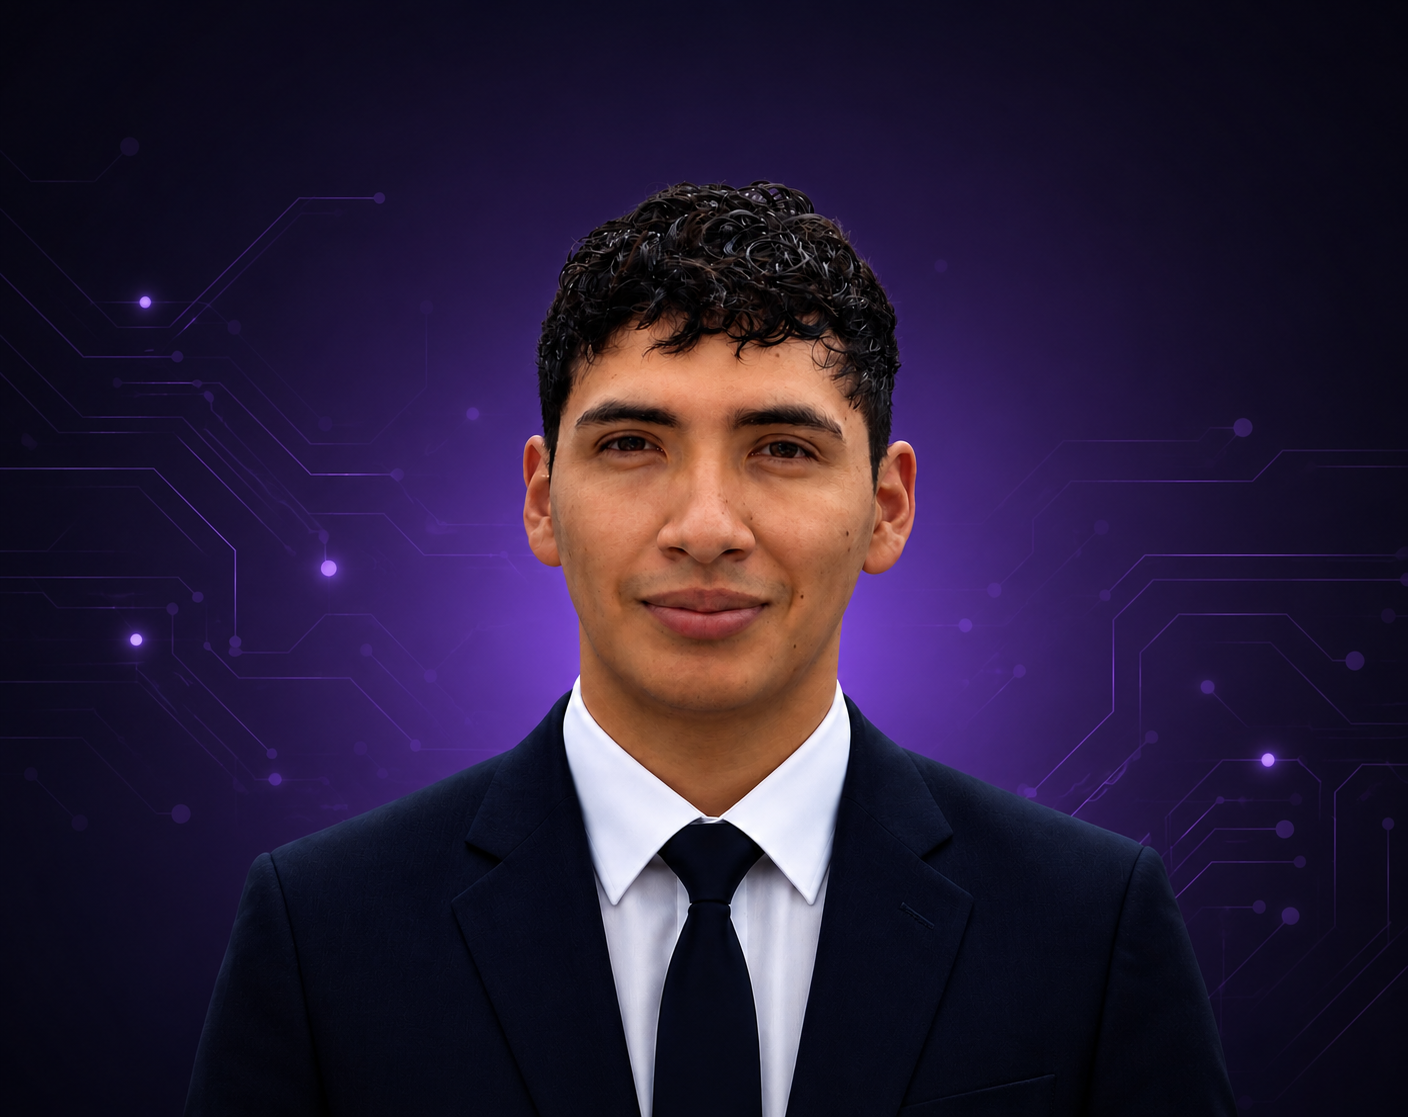
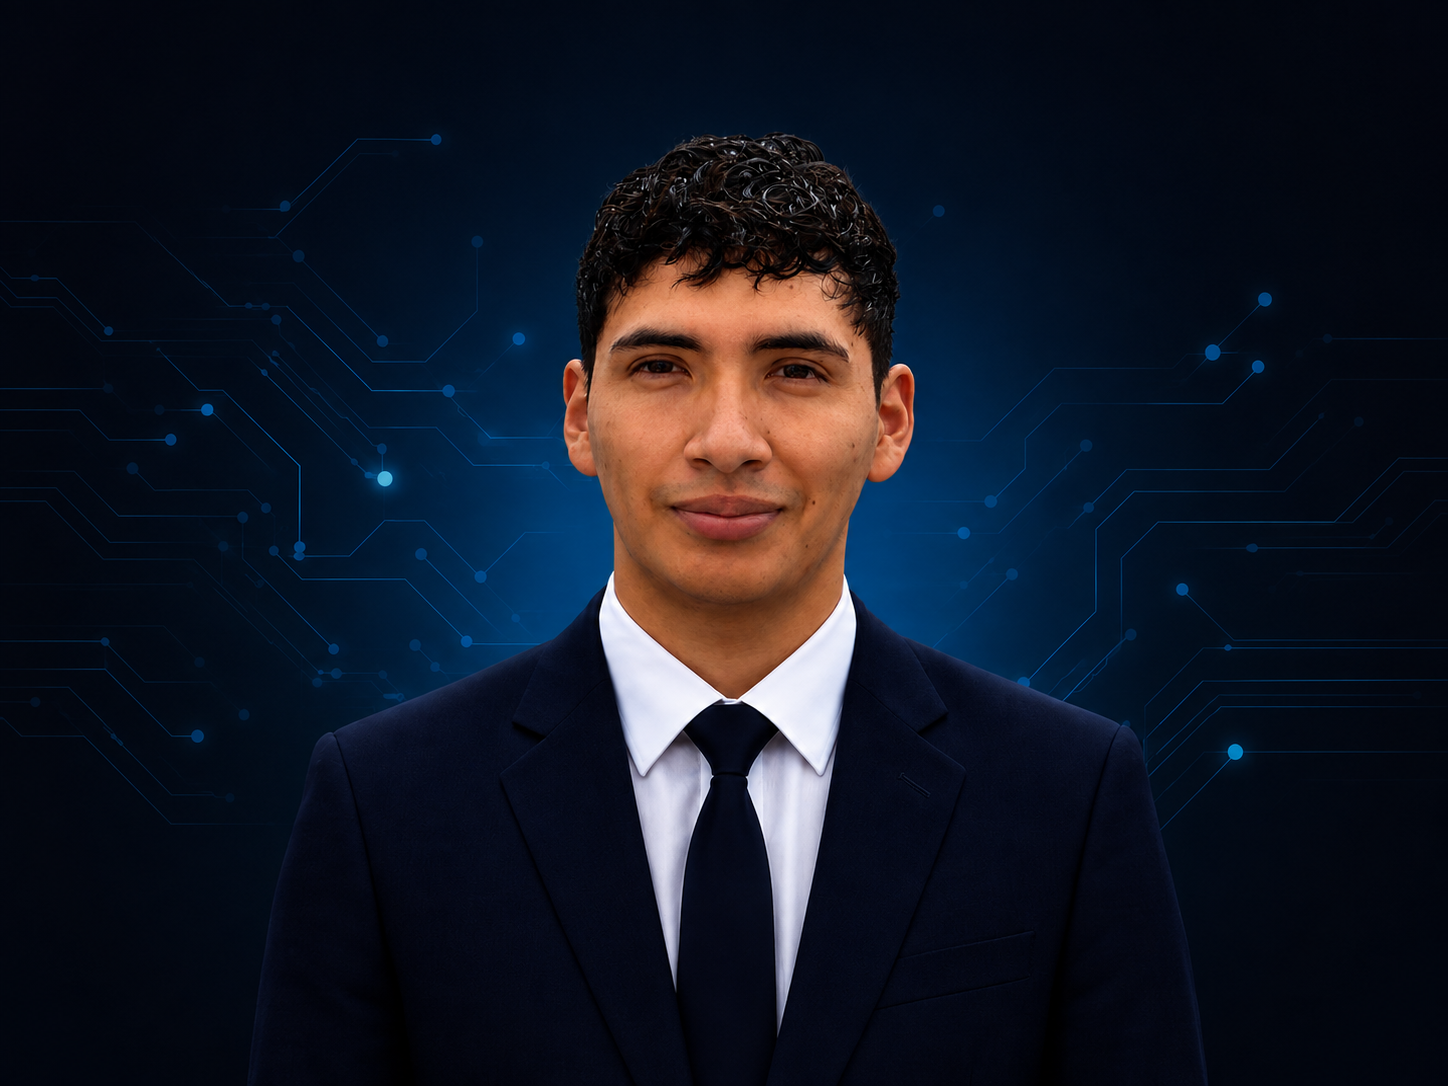
Modificacion de la seccion de proyectos y contacto: Implementacion del boton de git, arreglo de imagenes, modificacion de la seccion de contactos

diff --git a/src/components/Contact.jsx b/src/components/Contact.jsx
@@ -4,59 +4,80 @@ import { PiReadCvLogoFill } from "react-icons/pi"
 
 const Contact = () => {
   return (
-    <div id="contact"className="flex min-h-[70vh] min-w-full items-center justify-center p-4">
-      <div className="flex flex-col items-center justify-center gap-3 space-y-6 p-14">
-        <h1 className="text-center text-5xl md:text-7xl">
-          <span className="bg-linear-to-r from-indigo-500 to-blue-500 bg-clip-text text-transparent">
-            Ponte en contacto
-          </span>
-        </h1>
-        <p className="text-center text-lg font-semibold text-gray-500">
-          ¿Tienes una oportunidad laboral, un proyecto o simplemente quieres ponerte en contacto? Estaré encantado de conversar contigo.
-        </p>
-        <ul className="flex flex-wrap gap-5">
-          <li className="flex items-center gap-2 cursor-pointer text-lg opacity-70 transition-all duration-300 text-blue-500 hover:opacity-100">
-            <a
-              href="https://www.linkedin.com/in/jhon-roque-53512b378"
-              target="_blank"
-              rel="noopener noreferrer"
-              className="flex items-center gap-2"
-            >
-              <BsLinkedin />
-              Linkedin
-            </a>
-          </li>
-          <li className="flex items-center gap-2 cursor-pointer text-lg opacity-70 transition-all duration-300 text-orange-500 hover:opacity-100">
-            <a
-              href="https://github.com/jhonRR28"
-              target="_blank"
-              rel="noopener noreferrer"
-              className="flex items-center gap-2"
-            >
-              <BsGithub />
-              GitHub
-            </a>
-          </li>
-          <li className="flex items-center gap-2 cursor-pointer text-lg opacity-70 transition-all duration-300 text-sky-500 hover:opacity-100">
-            <a
-              href="/cv/Jhon_Roque_CV.pdf"
-              target="_blank"
-              rel="noopener noreferrer"
-              className="flex items-center gap-2"
-            >
-              <PiReadCvLogoFill />
-              Descargar CV
-            </a>
-          </li>
-        </ul>
+    <div id="contact" className="flex min-h-[70vh] w-full items-center justify-center px-4 py-20">
+      <div className="flex w-full max-w-5xl flex-col items-center gap-10">
 
-        <a
-          href="mailto:maleshector68@gmail.com"
-          className="flex items-center gap-2 rounded-xl border border-sky-500 px-6 py-3 font-medium text-sky-400 transition-all duration-300  hover:text-white hover:scale-105 hover:shadow-lg hover:shadow-sky-500/30"
-        >
-          <BiMailSend className="text-xl" />
-          Enviar correo
-        </a>
+        {/* Título */}
+        <div className="flex flex-col items-center gap-6 text-center">
+          <h1 className="bg-linear-to-r from-sky-300 via-cyan-400 to-blue-500 bg-clip-text text-4xl font-light text-transparent md:text-6xl">
+            Ponte en contacto
+          </h1>
+
+          <p className="max-w-2xl text-base leading-7 text-gray-400 md:text-lg">
+            ¿Tienes una oportunidad laboral, un proyecto o simplemente quieres
+            ponerte en contacto? Estaré encantado de conversar contigo.
+          </p>
+        </div>
+
+        {/* Cards */}
+        <div className="grid w-full grid-cols-1 justify-items-center gap-5 md:grid-cols-3">
+
+          {/* LinkedIn */}
+          <a
+            href="https://www.linkedin.com/in/jhon-roque-53512b378"
+            target="_blank"
+            rel="noopener noreferrer"
+            className="group flex w-full max-w-3xs flex-col items-center justify-center gap-4 rounded-2xl border border-slate-700/50 bg-slate-900/40 p-6 text-center transition-all duration-300 hover:-translate-y-2 hover:border-sky-400/50 hover:bg-slate-900/70 hover:shadow-lg hover:shadow-sky-500/10"
+          >
+            <BsLinkedin className="text-4xl text-sky-400 transition-transform duration-300 group-hover:scale-110" />
+            <div>
+              <h3 className="text-lg font-semibold text-white">
+                LinkedIn
+              </h3>
+              <p className="mt-1 text-sm text-gray-400">
+                Conecta conmigo
+              </p>
+            </div>
+          </a>
+
+          {/* GitHub */}
+          <a
+            href="https://github.com/jhonRR28"
+            target="_blank"
+            rel="noopener noreferrer"
+            className="group flex w-full max-w-3xs flex-col items-center justify-center gap-4 rounded-2xl border border-slate-700/50 bg-slate-900/40 p-6 text-center transition-all duration-300 hover:-translate-y-2 hover:border-sky-400/50 hover:bg-slate-900/70 hover:shadow-lg hover:shadow-sky-500/10"
+          >
+            <BsGithub className="text-4xl text-white transition-transform duration-300 group-hover:scale-110" />
+
+            <div>
+              <h3 className="text-lg font-semibold text-white">
+                GitHub
+              </h3>
+
+              <p className="mt-1 text-sm text-gray-400">
+                Mira mis proyectos
+              </p>
+            </div>
+          </a>
+
+          {/* Correo */}
+          <a
+            href="mailto:maleshector68@gmail.com"
+            className="group flex w-full max-w-3xs flex-col items-center justify-center gap-4 rounded-2xl border border-slate-700/50 bg-slate-900/40 p-6 text-center transition-all duration-300 hover:-translate-y-2 hover:border-sky-400/50 hover:bg-slate-900/70 hover:shadow-lg hover:shadow-sky-500/10"
+          >
+            <BiMailSend className="text-4xl text-cyan-400 transition-transform duration-300 group-hover:scale-110" />
+
+            <div>
+              <h3 className="text-lg font-semibold text-white">
+                Correo
+              </h3>
+
+              <p className="mt-1 text-sm text-gray-400">
+                Escríbeme directamente
+              </p>
+            </div>
+          </a>
+        </div>
       </div>
     </div>
   )

diff --git a/src/components/Projects.jsx b/src/components/Projects.jsx
@@ -1,10 +1,11 @@
 import { div } from 'motion/react-client'
-import image1 from '/public/facturacion.jpeg'
+import image1 from '/public/facturacion.png'
 import image2 from '/public/cuidarnos.png'
 import image3 from '/public/finu.png'
 import image4 from '/public/image4.jpg'
 import image5 from '/public/image5.jpg'
 import { motion } from "motion/react"
+import { BsGithub } from 'react-icons/bs'
 
 const projectsData = [
   {
@@ -12,36 +13,36 @@ const projectsData = [
     title: "Sistema Integral de Gestión de Clientes y Facturación",
     description: "Sistema web desarrollado para optimizar la gestión de clientes, consumos y facturación de un acueducto comunitario. Participé en el desarrollo de funcionalidades, mantenimiento y mejoras del sistema, contribuyendo a automatizar procesos administrativos.",
     technologies: ["PHP", "MySQL", "JavaScript", "HTML", "CSS"],
-    link: "https://example.com/project1"
+    repository: "https://github.com/gabrieljimenezc01/Facturacion_Aranda/tree/jhon"
   },
   {
     image: image2,
     title: "Aplicación para la Coordinación del Cuidado de Pacientes",
     description: "Proyecto personal orientado a mejorar la organización del cuidado de pacientes mediante la centralización de información médica, medicamentos y responsabilidades familiares. Actualmente se encuentra en desarrollo.",
     technologies: ["Flutter", "Django", "PostgresSQL"],
-    link: "https://example.com/project2"
+    repository: "#home"
   },
   {
     image: image3,
     title: "FinU",
     description: "Aplicación enfocada en la gestión de gastos personales, diseñada para facilitar el registro y seguimiento de ingresos y egresos mediante una interfaz sencilla e intuitiva.",
     technologies: ["Flutter", "SQLite"],
-    link: "https://example.com/project3"
+    repository: "https://github.com/gabrieljimenezc01/FinU"
   },
-  {
-    image: image4,
-    title: "Project 4",
-    description: "lorem ipsum dolor sit amet, consectetur adipiscing elit. Sed do eiusmod tempor incididunt ut labore et dolore magna aliqua.",
-    technologies: ["React", "Tailwind CSS", "Node.js"],
-    link: "https://example.com/project4"
-  },
-  {
-    image: image5,
-    title: "Project 5",
-    description: "lorem ipsum dolor sit amet, consectetur adipiscing elit. Sed do eiusmod tempor incididunt ut labore et dolore magna aliqua.",
-    technologies: ["React", "Tailwind CSS", "Node.js"],
-    link: "https://example.com/project5"
-  }
+  // {
+  //   image: image4,
+  //   title: "Project 4",
+  //   description: "lorem ipsum dolor sit amet, consectetur adipiscing elit. Sed do eiusmod tempor incididunt ut labore et dolore magna aliqua.",
+  //   technologies: ["React", "Tailwind CSS", "Node.js"],
+  //   repository: "https://example.com/project4"
+  // },
+  // {
+  //   image: image5,
+  //   title: "Project 5",
+  //   description: "lorem ipsum dolor sit amet, consectetur adipiscing elit. Sed do eiusmod tempor incididunt ut labore et dolore magna aliqua.",
+  //   technologies: ["React", "Tailwind CSS", "Node.js"],
+  //   repository: "https://example.com/project5"
+  // }
 ]
 
 const ScrollReveal = ({ children }) => {
@@ -68,14 +69,18 @@ const ProjectCard = ({project}) => {
           <p className='text-gray-400'>{project.description}</p>
         </div>
 
-        <div className="flex flex-wrap gap-5">
-          {
-            project.technologies.map((tech, index) => (
-              <span key={index} className="rounded-lg bg-black p-3">
+        <div className="flex flex-wrap items-end justify-between gap-4">
+          <div className="flex flex-wrap gap-3">
+            {project.technologies.map((tech, index) => (
+              <span key={index} className="rounded-lg border border-sky-400/20 bg-sky-400/5 px-3 py-1.5 text-sm text-sky-300 transition-all duration-300 hover:border-sky-400/50 hover:bg-sky-400/10">
                 {tech}
               </span>
-            ))
-          }
+            ))}
+          </div>
+          <a href={project.repository} target="_blank" rel="noopener noreferrer" className="flex shrink-0 items-center gap-2 rounded-lg border border-sky-400/30 px-4 py-2 text-sm font-medium text-sky-300 transition-all duration-300 hover:-translate-y-1 hover:border-sky-400 hover:bg-sky-400/10 hover:text-sky-200 hover:shadow-lg hover:shadow-sky-500/20">
+            <BsGithub className="text-lg" />
+          </a>
+
         </div>
       </div>
     </div>
@@ -88,7 +93,7 @@ const Projects = () => {
     <div id="projects" className='flex min-h-screen w-full flex-col items-center justify-center gap-16 p-4 md:px-14 md:py-24:'>
 
       <ScrollReveal>
-      <h1 className='text-4xl font-light text-white md:text-6xl'>Mis Proyectos</h1>
+      <h1 className='text-4xl font-normal text-white md:text-6xl'>Mis Proyectos</h1>
       </ScrollReveal>
 
       <div className="flex w-full max-w-250 flex-col gap-16 text-white">

diff --git a/src/components/Hero.jsx b/src/components/Hero.jsx
@@ -19,7 +19,7 @@ const Hero = () => {
           transition={{ duration: 0.8, delay: 0.2 }}
           className="flex max-w-150 flex-col items-center justify-center gap-3 text-center"
         >
-          <h1 className="bg-linear-to-r from-sky-300 via-cyan-400 to-blue-500 bg-clip-text text-transparent text-5xl font-light  md:text-7xl">
+          <h1 className="bg-linear-to-r from-sky-300 via-cyan-400 to-blue-500 bg-clip-text text-transparent text-5xl font-semibold  md:text-7xl">
             Jhon Roque
           </h1>
           <h3 className="bg-linear-to-r from-sky-400 to-blue-500 bg-clip-text text-transparent text-lg md:text-3xl">

diff --git a/src/components/Tech.jsx b/src/components/Tech.jsx
@@ -73,7 +73,7 @@ const Tech = () => {
       whileInView="visible"
       transition={{ duration: 0.5 }}
 
-      className="text-4xl font-light text-white md:text-6xl">
+      className="text-4xl font-normal text-white md:text-6xl">
         Tecnologías
       </motion.h1>
       
